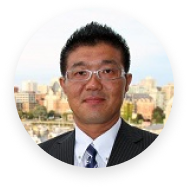
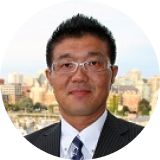
Adjust image and styles for #company .staff img

diff --git a/css/style.css b/css/style.css
@@ -277,6 +277,10 @@ nav li {
     gap: 30px;
 }
 
+.staff img {
+    filter: drop-shadow(0px 6px 14px rgba(188, 188, 188, 0.5));
+}
+
 .staff_left {
     width: 160px;
 }
